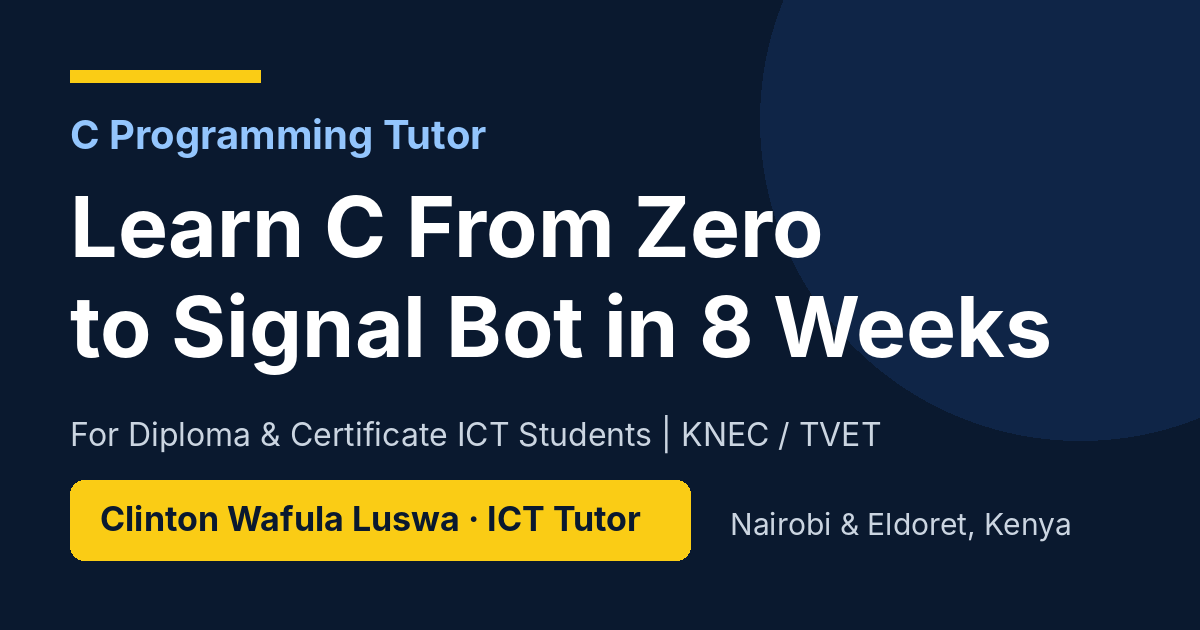
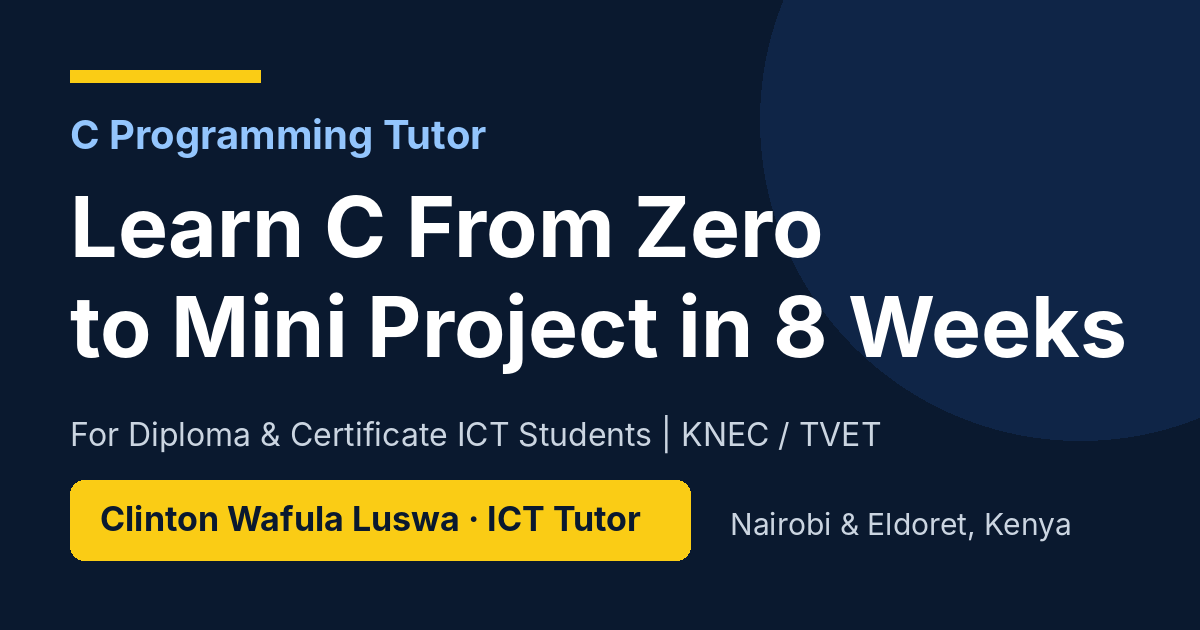
Add files via upload

Changed region(s): [[0.1233, 0.4524, 0.9558, 0.6032]]

diff --git a/index.html b/index.html
@@ -4,7 +4,7 @@
 <meta charset="UTF-8">
 <meta name="viewport" content="width=device-width, initial-scale=1.0">
 <title>C Programming Tutor Nairobi | Clinton Luswa – KNEC ICT Trainer</title>
-<meta name="description" content="Learn C Programming in Kenya from zero to Signal Bot in 8 weeks. KNEC C programming notes, Diploma ICT C programming classes in Nairobi &amp; Eldoret by Clinton Wafula Luswa, ICT Tutor.">
+<meta name="description" content="Learn C Programming in Kenya from zero to Mini Project in 8 weeks. KNEC C programming notes, Diploma ICT C programming classes in Nairobi &amp; Eldoret by Clinton Wafula Luswa, ICT Tutor.">
 <meta name="keywords" content="C Programming Tutor Nairobi, Learn C Programming Kenya, KNEC C Programming Notes, Diploma ICT C Programming, ICT Trainer Nairobi, TVET C programming">
 <meta name="author" content="Clinton Wafula Luswa">
 <meta name="robots" content="index, follow, max-image-preview:large">
@@ -15,15 +15,15 @@
 <meta property="og:site_name" content="C Programming Hub – Clinton Luswa">
 <meta property="og:locale" content="en_KE">
 <meta property="og:title" content="C Programming Tutor Nairobi | Learn C in 8 Weeks – Clinton Luswa">
-<meta property="og:description" content="From Hello World to Signal Bot in 8 weeks. Free KNEC C programming notes and classes for Diploma &amp; Certificate ICT students. Nairobi &amp; Eldoret.">
+<meta property="og:description" content="From Hello World to Mini Project in 8 weeks. Free KNEC C programming notes and classes for Diploma &amp; Certificate ICT students. Nairobi &amp; Eldoret.">
 <meta property="og:url" content="https://c-programming-hub-mu.vercel.app/">
 <meta property="og:image" content="https://c-programming-hub-mu.vercel.app/og-image.png">
 <meta property="og:image:width" content="1200">
 <meta property="og:image:height" content="630">
-<meta property="og:image:alt" content="Learn C Programming from zero to Signal Bot in 8 weeks with Clinton Wafula Luswa, ICT Tutor">
+<meta property="og:image:alt" content="Learn C Programming from zero to Mini Project in 8 weeks with Clinton Wafula Luswa, ICT Tutor">
 <meta name="twitter:card" content="summary_large_image">
 <meta name="twitter:title" content="C Programming Tutor Nairobi | Clinton Luswa">
-<meta name="twitter:description" content="Learn C from zero to Signal Bot in 8 weeks. KNEC notes for Diploma &amp; Certificate ICT students.">
+<meta name="twitter:description" content="Learn C from zero to Mini Project in 8 weeks. KNEC notes for Diploma &amp; Certificate ICT students.">
 <meta name="twitter:image" content="https://c-programming-hub-mu.vercel.app/og-image.png">
 
 <link rel="icon" href="/logo-96.png" type="image/png">
@@ -46,13 +46,15 @@
       "@type": "Person",
       "@id": "https://c-programming-hub-mu.vercel.app/#clinton",
       "name": "Clinton Wafula Luswa",
-      "jobTitle": "C Programming Tutor and ICT Trainer",
+      "jobTitle": "ICT Trainer and C Programming Tutor",
+      "seeks": "ICT trainer and C programming tutor positions in Nairobi and Eldoret",
       "description": "ICT tutor teaching C programming to Diploma and Certificate ICT students (KNEC / TVET) in Nairobi and Eldoret, Kenya.",
       "url": "https://c-programming-hub-mu.vercel.app/",
       "image": "https://c-programming-hub-mu.vercel.app/og-image.png",
       "email": "mailto:clintonluswa@gmail.com",
       "telephone": "+254748032315",
       "alumniOf": { "@type": "CollegeOrUniversity", "name": "Eldoret National Polytechnic" },
+      "sameAs": ["https://www.linkedin.com/in/clinton-wafula-luswa-108b37429", "https://luswa-portfolio.vercel.app"],
       "knowsAbout": ["C programming", "ICT training", "KNEC Diploma ICT", "TVET"],
       "homeLocation": { "@type": "Place", "address": { "@type": "PostalAddress", "addressLocality": "Nairobi", "addressCountry": "KE" } },
       "areaServed": ["Nairobi", "Eldoret"]
@@ -60,8 +62,8 @@
     {
       "@type": "Course",
       "@id": "https://c-programming-hub-mu.vercel.app/#course",
-      "name": "C Programming: From Zero to Signal Bot in 8 Weeks",
-      "description": "An 8-week, learn-by-building C programming course for Diploma and Certificate ICT students: compiler setup, variables, if/else, loops, functions, arrays and strings, pointers and files, and a final Signal Bot project.",
+      "name": "C Programming: From Zero to Mini Project in 8 Weeks",
+      "description": "An 8-week, learn-by-building C programming course for Diploma and Certificate ICT students: compiler setup, variables, if/else, loops, functions, arrays and strings, pointers and files, and a final Mini Project project.",
       "provider": { "@id": "https://c-programming-hub-mu.vercel.app/#clinton" },
       "instructor": { "@id": "https://c-programming-hub-mu.vercel.app/#clinton" },
       "inLanguage": "en",
@@ -90,7 +92,7 @@
   <div class="nav-inner">
     <a class="brand" href="/" aria-label="C Programming Hub – Clinton Luswa, home">
       <img src="/logo-96.png" alt="C Programming Hub logo" width="40" height="40">
-      <span class="brand-text"><strong>Clinton Luswa</strong><small>C Programming Tutor</small></span>
+      <span class="brand-text"><strong>Clinton Luswa</strong><small>ICT Trainer · C Programming</small></span>
     </a>
     <button class="menu-toggle" id="menuToggle" type="button" aria-label="Open navigation menu" aria-expanded="false" aria-controls="navLinks">☰</button>
     <nav class="nav-links" id="navLinks" aria-label="Main navigation">
@@ -110,8 +112,8 @@
 <section class="hero" id="home" aria-labelledby="hero-title">
   <div class="hero-grid">
     <div class="hero-copy">
-      <span class="eyebrow">C Programming Tutor · Nairobi &amp; Eldoret</span>
-      <h1 id="hero-title">Learn C Programming From Zero to <span>Signal Bot</span> in 8 Weeks</h1>
+      <span class="eyebrow">ICT Trainer &amp; C Programming Tutor · Nairobi &amp; Eldoret</span>
+      <h1 id="hero-title">Learn C Programming From Zero to <span>Mini Project</span> in 8 Weeks</h1>
       <p class="hero-subtitle">For Diploma &amp; Certificate ICT Students | KNEC / TVET</p>
       <p class="hero-by">By Clinton Wafula Luswa, ICT Tutor</p>
       <div class="hero-actions">
@@ -149,7 +151,7 @@
       <span class="section-label">About Me</span>
       <h2 id="about-title">Hi, I'm Clinton Wafula Luswa</h2>
       <p>I'm an ICT tutor who teaches C programming to Diploma and Certificate ICT students. I hold a Diploma in ICT from Eldoret National Polytechnic and I am training in pedagogy at KSTVET (2026). I have 3 years of experience teaching in a cyber, where I help students go from their first line of code to writing programs on their own.</p>
-      <p>My method is simple: <strong>Learn by Building</strong>. You don't just read about loops, you use them in a real program. In 8 weeks we go from Hello World to a working Signal Bot project you can show to lecturers and employers.</p>
+      <p>My method is simple: <strong>Learn by Building</strong>. You don't just read about loops, you use them in a real program. In 8 weeks we go from Hello World to a working mini project you can show to lecturers and employers.</p>
       <ul class="about-facts">
         <li>Diploma in ICT – Eldoret National Polytechnic</li>
         <li>Pedagogy training – KSTVET (2026)</li>
@@ -157,6 +159,52 @@
         <li>Based in Nairobi, originally from Eldoret</li>
       </ul>
       <a class="btn btn-blue" href="#contact">Talk to Me</a>
+    </div>
+  </div>
+</section>
+
+<!-- ============ FOR COLLEGES / EMPLOYERS ============ -->
+<section class="section dark" id="trainer" aria-labelledby="trainer-title">
+  <div class="container">
+    <div class="section-heading">
+      <span class="section-label">For Colleges &amp; Employers</span>
+      <h2 id="trainer-title">ICT Trainer Profile</h2>
+      <p>Looking for a C programming trainer for your Diploma or Certificate ICT department? Here is what I bring to the classroom.</p>
+    </div>
+    <div class="profile-grid">
+      <div class="profile-card">
+        <h3>At a glance</h3>
+        <dl class="profile-facts">
+          <div><dt>Role</dt><dd>ICT Trainer / C Programming Tutor</dd></div>
+          <div><dt>Qualification</dt><dd>Diploma in ICT (graduated 2023) – Eldoret National Polytechnic, KNEC examined</dd></div>
+          <div><dt>Teaching training</dt><dd>TVET Trainer coursework (ICT option) – Kenya School of TVET, enrolled January 2026</dd></div>
+          <div><dt>Experience</dt><dd>3 years teaching in a cyber</dd></div>
+          <div><dt>Certification</dt><dd>Cisco – Basic Computer Repair &amp; Maintenance (KSTVET, February 2026)</dd></div>
+          <div><dt>Levels</dt><dd>Diploma &amp; Certificate ICT (KNEC / TVET)</dd></div>
+          <div><dt>Location</dt><dd>Nairobi, Kenya · also Eldoret</dd></div>
+          <div><dt>Online</dt><dd><a href="https://www.linkedin.com/in/clinton-wafula-luswa-108b37429" target="_blank" rel="noopener">LinkedIn</a> · <a href="https://luswa-portfolio.vercel.app" target="_blank" rel="noopener">Web portfolio</a></dd></div>
+        </dl>
+        <div class="hero-actions">
+          <a class="btn btn-primary" href="mailto:clintonluswa@gmail.com?subject=Request%20for%20CV%20%E2%80%93%20ICT%20Trainer&amp;body=Hello%20Clinton%2C%20please%20send%20me%20your%20CV.">Request My CV</a>
+          <a class="btn btn-secondary" href="https://wa.me/254748032315?text=Hello%20Clinton%2C%20I%20would%20like%20to%20discuss%20a%20trainer%20position." target="_blank" rel="noopener">WhatsApp Me</a>
+        </div>
+      </div>
+      <div class="profile-card">
+        <h3>How I teach: Learn by Building</h3>
+        <ol class="method-steps">
+          <li><strong>Explain</strong><span>A short, clear explanation of one concept.</span></li>
+          <li><strong>Demonstrate</strong><span>Write the program live and run it.</span></li>
+          <li><strong>Build</strong><span>Students type and build their own version.</span></li>
+          <li><strong>Revise</strong><span>Practical and viva questions to prepare for assessment.</span></li>
+        </ol>
+        <h3>What your institution gets</h3>
+        <ul class="plan-list light">
+          <li>A ready 8-week C programming course outline</li>
+          <li>Free online notes for every topic</li>
+          <li>Practical and viva revision questions</li>
+          <li>Video lessons on YouTube and an online C compiler</li>
+        </ul>
+      </div>
     </div>
   </div>
 </section>
@@ -177,7 +225,7 @@
       <a class="week-card" href="/c-programming-functions"><span class="week-num">Week 5</span><h3>Functions</h3><p>Break big programs into reusable parts with parameters and return values.</p><span class="week-link">Open notes →</span></a>
       <a class="week-card" href="/c-programming-arrays"><span class="week-num">Week 6</span><h3>Arrays &amp; Strings</h3><p>Store lists of values and work with text in C.</p><span class="week-link">Open notes →</span></a>
       <a class="week-card" href="/c-programming-pointers"><span class="week-num">Week 7</span><h3>Pointers &amp; Files</h3><p>Understand memory addresses and save data to files.</p><span class="week-link">Open notes →</span></a>
-      <a class="week-card final" href="/c-programming-projects"><span class="week-num">Week 8</span><h3>Signal Bot Project</h3><p>Put everything together in a finished project for your portfolio.</p><span class="week-link">See projects →</span></a>
+      <a class="week-card final" href="/c-programming-projects"><span class="week-num">Week 8</span><h3>Mini Project</h3><p>Put everything together in a finished project for your portfolio.</p><span class="week-link">See projects →</span></a>
     </div>
   </div>
 </section>
@@ -192,7 +240,7 @@
     <div class="why-grid">
       <div class="why-card"><div class="icon"><svg viewBox="0 0 24 24" aria-hidden="true"><path d="M16 18l6-6-6-6M8 6l-6 6 6 6"/></svg></div><h3>Practical</h3><p>Every lesson is hands-on. You type the code, run it, break it and fix it.</p></div>
       <div class="why-card"><div class="icon"><svg viewBox="0 0 24 24" aria-hidden="true"><circle cx="12" cy="12" r="9"/><circle cx="12" cy="12" r="4"/><path d="M12 3v2M12 19v2M3 12h2M19 12h2"/></svg></div><h3>KNEC Exam Focus</h3><p>Notes, practical questions and viva questions made for Diploma and Certificate ICT students.</p></div>
-      <div class="why-card"><div class="icon"><svg viewBox="0 0 24 24" aria-hidden="true"><rect x="3" y="4" width="18" height="14" rx="2"/><path d="M8 21h8M12 18v3"/></svg></div><h3>Portfolio Project</h3><p>You finish with the Signal Bot project, something real to show lecturers and employers.</p></div>
+      <div class="why-card"><div class="icon"><svg viewBox="0 0 24 24" aria-hidden="true"><rect x="3" y="4" width="18" height="14" rx="2"/><path d="M8 21h8M12 18v3"/></svg></div><h3>Portfolio Project</h3><p>You finish with the mini project, something real to show lecturers and employers.</p></div>
       <div class="why-card"><div class="icon"><svg viewBox="0 0 24 24" aria-hidden="true"><path d="M17 21v-2a4 4 0 0 0-4-4H5a4 4 0 0 0-4 4v2"/><circle cx="9" cy="7" r="4"/><path d="M23 21v-2a4 4 0 0 0-3-3.87M16 3.13a4 4 0 0 1 0 7.75"/></svg></div><h3>Small Classes</h3><p>Small groups mean every student gets attention and questions get answered.</p></div>
     </div>
   </div>
@@ -388,9 +436,8 @@ int main(void) {
     </div>
     <div class="video-layout">
       <div>
-        <!-- REPLACE data-video-id with the ID from your YouTube link: youtube.com/watch?v=THIS_PART -->
-        <a class="yt-embed" id="featuredVideo" data-video-id="REPLACE_WITH_VIDEO_ID" data-title="How to Install C Compiler on Windows (30 Mins)"
-           href="https://www.youtube.com/results?search_query=C+Programming+with+Clinton+Luswa" target="_blank" rel="noopener"
+        <a class="yt-embed" id="featuredVideo" data-video-id="zXeTOxOhnnI" data-title="How to Install C Compiler on Windows (30 Mins)"
+           href="https://youtu.be/zXeTOxOhnnI" target="_blank" rel="noopener"
            aria-label="Play video: How to Install C Compiler on Windows (30 Mins)">
           <span class="yt-play">
             <span class="circle"><svg viewBox="0 0 24 24" aria-hidden="true"><path d="M8 5v14l11-7z"/></svg></span>
@@ -410,7 +457,7 @@ int main(void) {
       </div>
     </div>
     <div class="video-cta">
-      <a class="btn btn-primary" href="https://www.youtube.com/results?search_query=C+Programming+with+Clinton+Luswa" target="_blank" rel="noopener">Find the Channel on YouTube</a>
+      <a class="btn btn-primary" href="https://youtu.be/zXeTOxOhnnI" target="_blank" rel="noopener">Watch on YouTube</a>
     </div>
   </div>
 </section>
@@ -485,14 +532,14 @@ int main(void) {
   <div class="container contact-grid">
     <div class="contact-info">
       <span class="section-label">Contact / Hire Me</span>
-      <h2 id="contact-title">Let's Talk About Your C Programming Classes</h2>
-      <p>Whether you are a student, a parent or a college looking for an ICT trainer, send me a message and I will reply as soon as I can.</p>
+      <h2 id="contact-title">Hiring an ICT Trainer? Let's Talk</h2>
+      <p>I am open to ICT trainer and C programming tutor positions in Nairobi and Eldoret. Colleges, TVET institutions, students and parents are all welcome to message me and I will reply as soon as I can.</p>
       <ul class="contact-list">
         <li><span class="dot" aria-hidden="true">✆</span><div><a href="https://wa.me/254748032315" target="_blank" rel="noopener">WhatsApp: 0748 032 315</a><small>Fastest way to reach me</small></div></li>
         <li><span class="dot" aria-hidden="true">✉</span><div><a href="mailto:clintonluswa@gmail.com">clintonluswa@gmail.com</a><small>For colleges and formal enquiries</small></div></li>
         <li><span class="dot" aria-hidden="true">⌖</span><div><strong>Nairobi, Kenya</strong><small>Also serving Eldoret</small></div></li>
       </ul>
-      <a class="btn btn-primary" href="https://wa.me/254748032315?text=Hello%20Clinton%2C%20I%20found%20your%20website%20and%20would%20like%20to%20talk%20about%20C%20Programming%20classes." target="_blank" rel="noopener">Chat on WhatsApp</a>
+      <div class="hero-actions"><a class="btn btn-primary" href="https://wa.me/254748032315?text=Hello%20Clinton%2C%20I%20found%20your%20website%20and%20would%20like%20to%20talk%20about%20a%20trainer%20position%20or%20C%20Programming%20classes." target="_blank" rel="noopener">Chat on WhatsApp</a><a class="btn btn-secondary" href="mailto:clintonluswa@gmail.com?subject=ICT%20Trainer%20Enquiry%20%E2%80%93%20Clinton%20Luswa">Email Me</a></div>
     </div>
 
     <form class="contact-form" id="contactForm" action="mailto:clintonluswa@gmail.com" method="post" enctype="text/plain">

diff --git a/style.css b/style.css
@@ -138,6 +138,8 @@ p { margin: 0 0 1em; }
 /* On light sections the legacy secondary button needs dark text */
 .section .btn-secondary, .course-intro .btn-secondary { color: var(--blue); border-color: var(--blue); }
 .section .btn-secondary:hover, .course-intro .btn-secondary:hover { background: var(--blue-soft); }
+.section.dark .btn-secondary { color: #fff; border-color: rgba(255, 255, 255, 0.5); }
+.section.dark .btn-secondary:hover { background: rgba(255, 255, 255, 0.1); border-color: #fff; }
 
 /* ---------- Hero (home + legacy inner pages) ---------- */
 .hero {
@@ -375,6 +377,25 @@ pre code { background: transparent; color: inherit; padding: 0; }
 .plan-list li { padding-left: 24px; position: relative; }
 .plan-list li::before { content: "✓"; position: absolute; left: 0; color: var(--blue); font-weight: 800; }
 @media (min-width: 800px) { .plan-grid { grid-template-columns: repeat(3, 1fr); } }
+
+/* ---------- Trainer profile ---------- */
+.profile-grid { display: grid; gap: 18px; }
+.profile-card { background: var(--navy-2); border: 1px solid rgba(255, 255, 255, .1); border-radius: var(--radius); padding: 24px; }
+.profile-card h3 { font-size: 1.1rem; margin-bottom: 14px; }
+.profile-card h3:not(:first-child) { margin-top: 24px; }
+.profile-facts { margin: 0 0 20px; display: grid; }
+.profile-facts div { display: grid; gap: 2px; padding: 11px 0; border-bottom: 1px solid rgba(255, 255, 255, .1); }
+.profile-facts dt { font-size: 12px; font-weight: 800; letter-spacing: .08em; text-transform: uppercase; color: var(--yellow); }
+.profile-facts dd { margin: 0; color: #e2e8f0; font-weight: 600; }
+.profile-facts a { color: #fff; text-decoration: underline; }
+.method-steps { list-style: none; counter-reset: s; padding: 0; margin: 0; display: grid; gap: 12px; }
+.method-steps li { counter-increment: s; position: relative; padding-left: 46px; display: grid; }
+.method-steps li::before { content: counter(s); position: absolute; left: 0; top: 0; width: 34px; height: 34px; border-radius: 50%; background: var(--yellow); color: var(--navy); font-weight: 800; display: grid; place-items: center; }
+.method-steps strong { color: #fff; }
+.method-steps span { color: #cbd5e1; font-size: 14.5px; }
+.plan-list.light { color: #e2e8f0; }
+.plan-list.light li::before { color: var(--yellow); }
+@media (min-width: 800px) { .profile-grid { grid-template-columns: 1fr 1fr; gap: 24px; } .profile-facts div { grid-template-columns: 150px 1fr; align-items: baseline; } }
 
 /* ---------- Testimonials (shown once you add real ones) ---------- */
 .quote-grid { display: grid; gap: 16px; }
